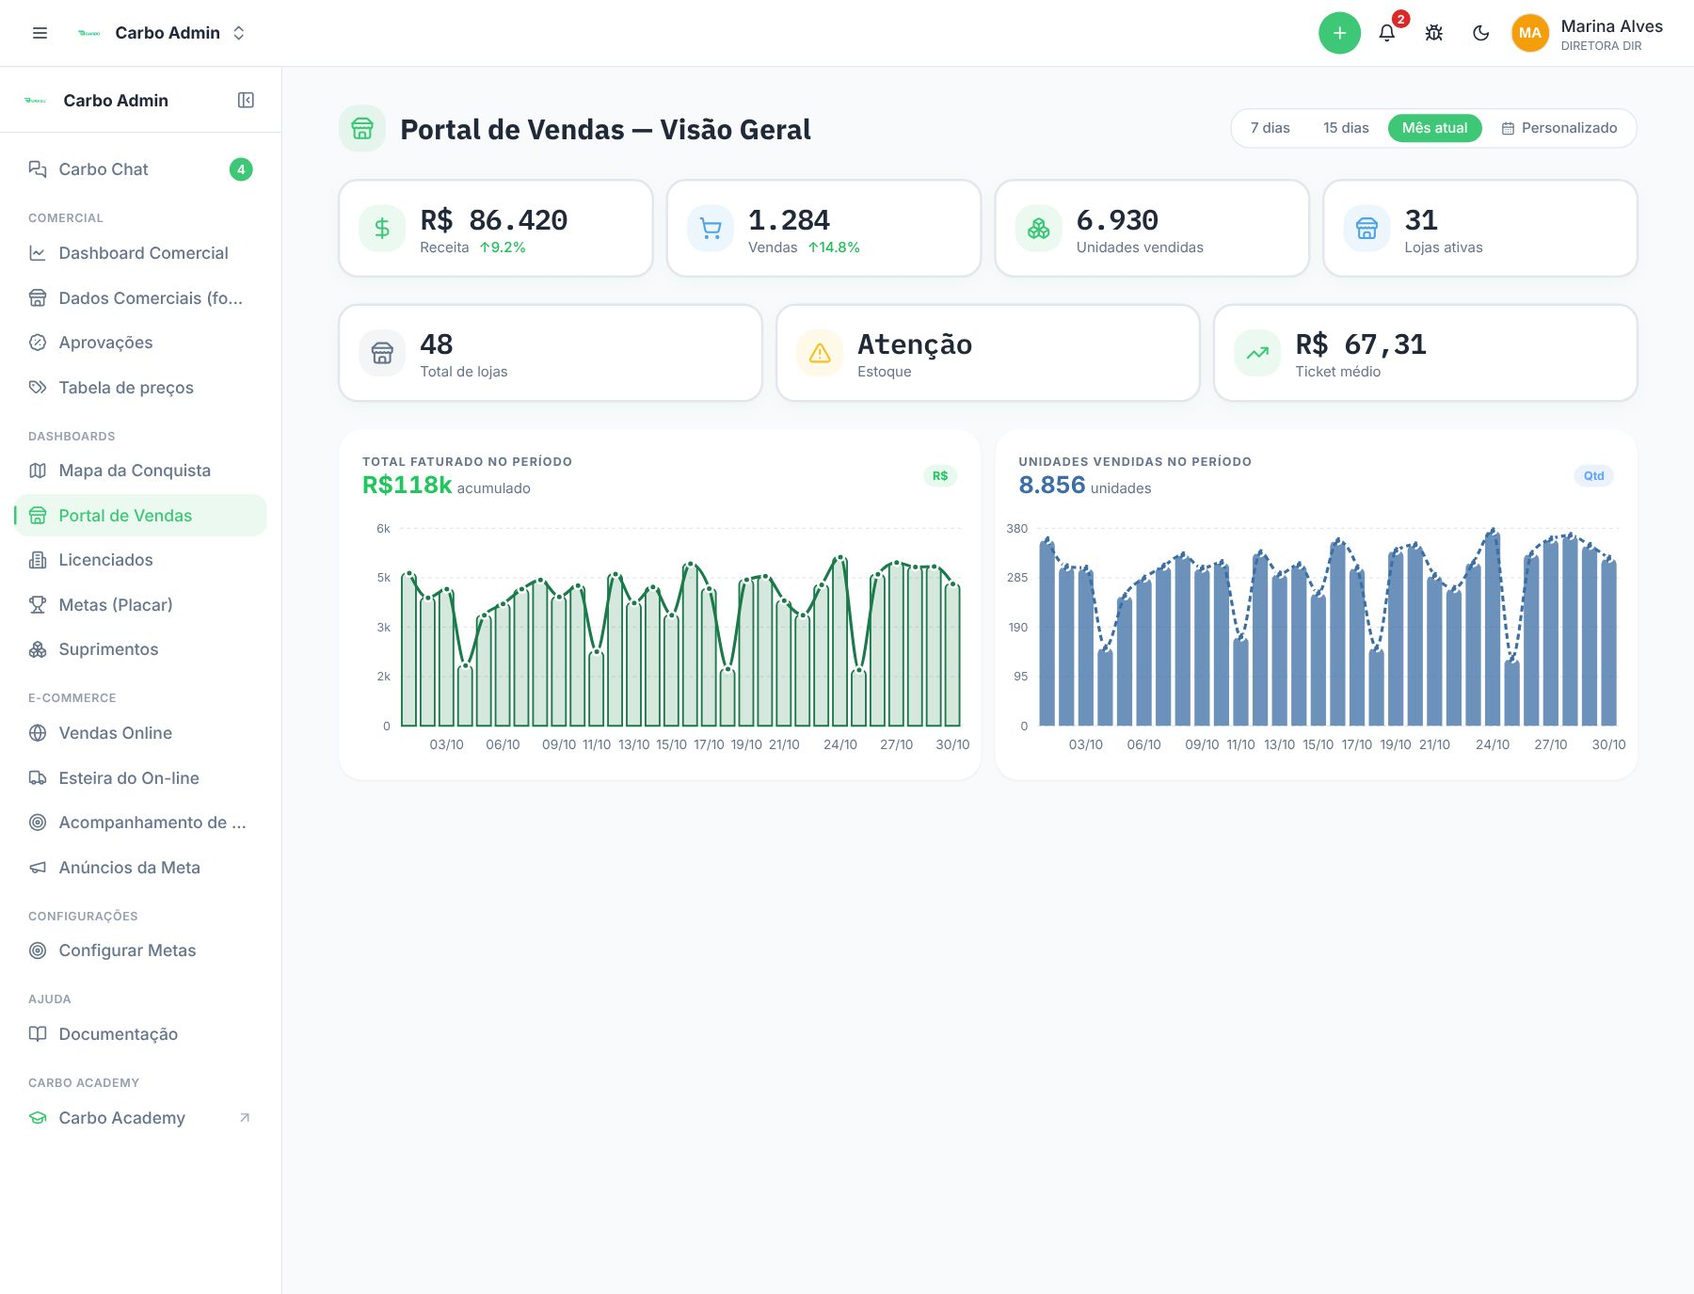
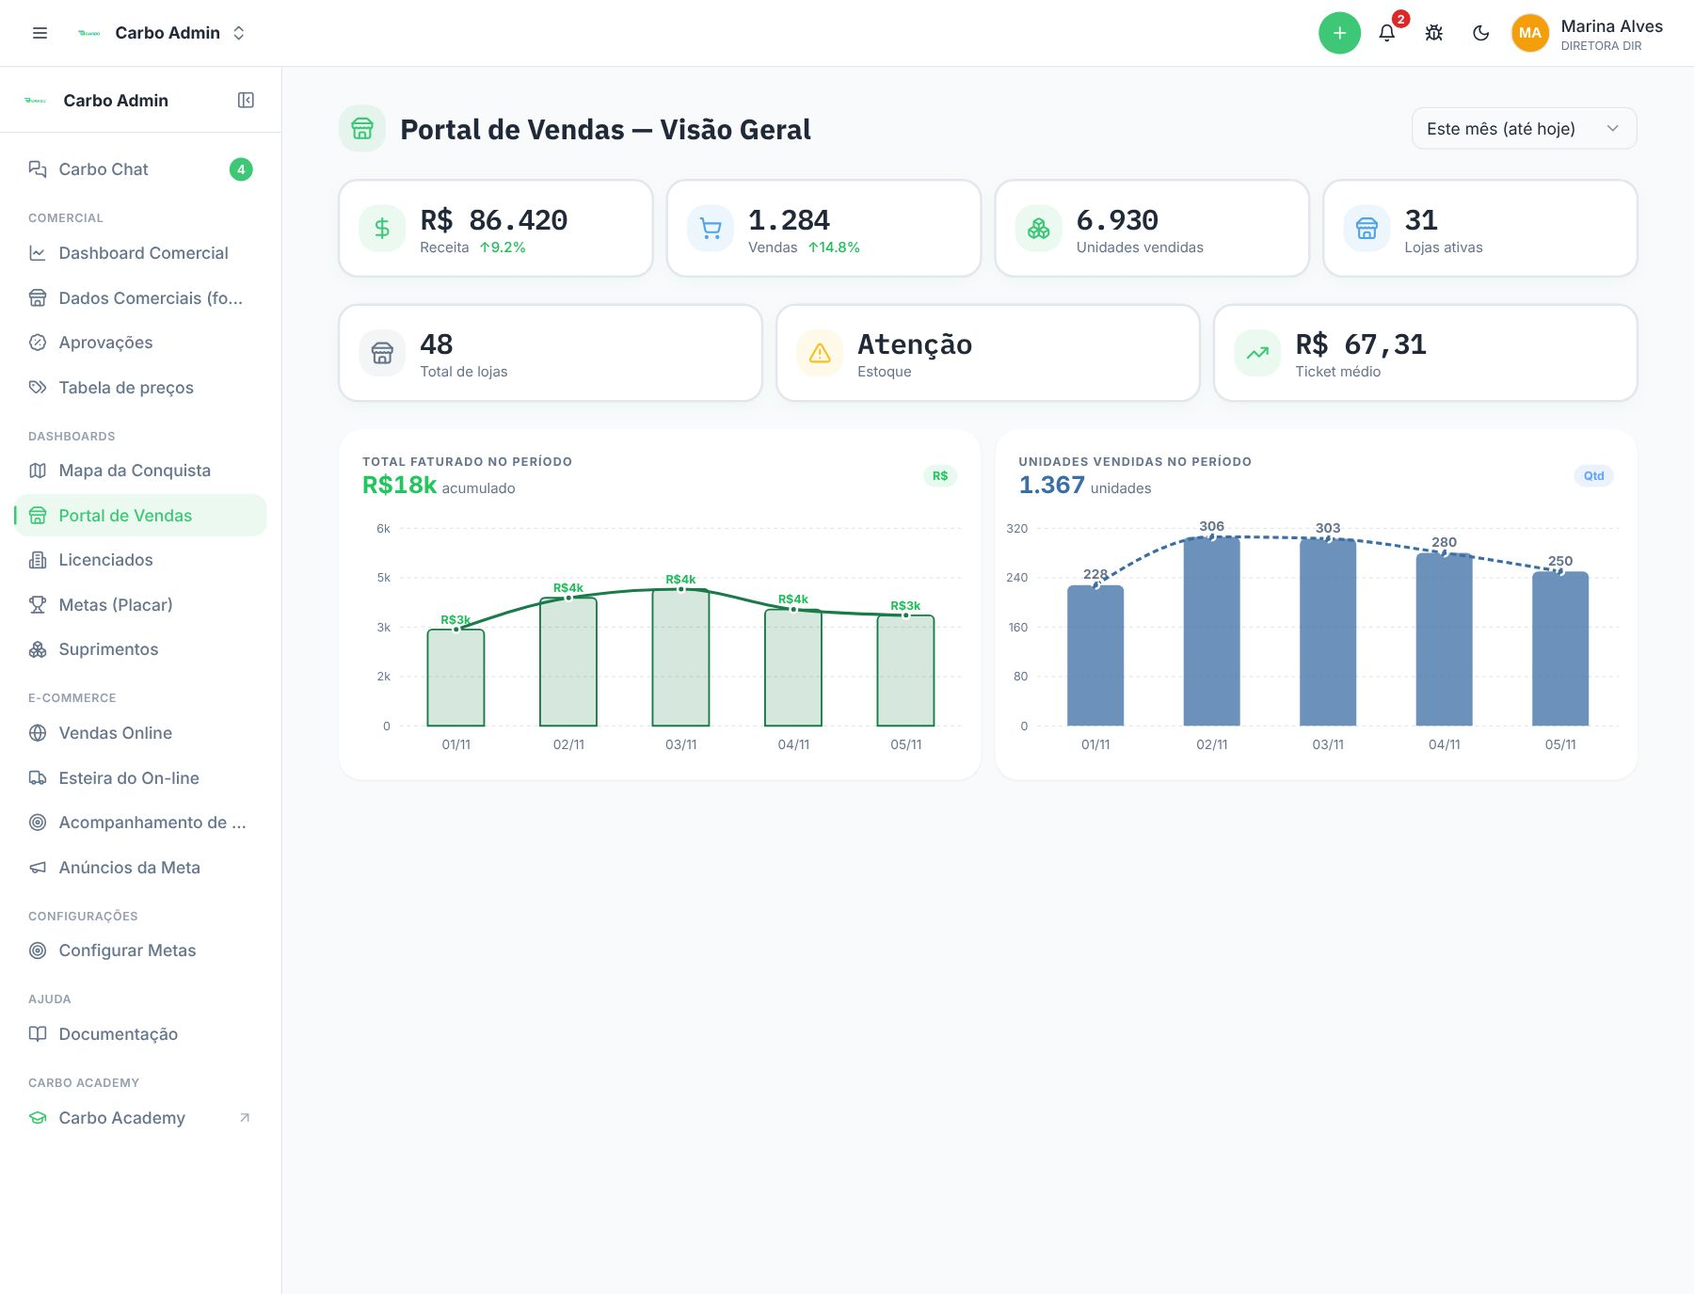
Documentação dos seletores de período (em andamento)
Textos e prints sendo refeitos — fica na branch de desenvolvimento até terminar.

Claude-Session: https://claude.ai/code/session_014dECjKfnWPqtYYc6bX6aZY

Changed region(s): [[0.2178, 0.3665, 0.9644, 0.5804], [0.7778, 0.0611, 0.9333, 0.1222], [0.2489, 0.3665, 0.3111, 0.3971]]

diff --git a/apps/admin/src/docs/secoes/paineis.ts b/apps/admin/src/docs/secoes/paineis.ts
@@ -29,7 +29,7 @@ export const SECOES_PAINEIS: Secao[] = [
     blocos: [
       {
         titulo: "A tela",
-        print: { chave: "mapa-conquista", legenda: "O Brasil por estado, com o período “Este mês”." },
+        print: { chave: "mapa-conquista", legenda: "O Brasil por estado, com o período “Este mês (até hoje)”." },
         itens: [
           { n: 1, titulo: "Cidades", texto: "Quantos municípios já têm presença da Carbo, e quantos municípios o Brasil tem ao todo." },
           { n: 2, titulo: "Estados", texto: "Em quantos dos 27 estados a Carbo já chegou." },
@@ -38,7 +38,7 @@ export const SECOES_PAINEIS: Secao[] = [
           { n: 5, titulo: "Faturamento", texto: "Quanto essas cidades somam em vendas. Com um estado aberto, só aquele estado." },
           { n: 6, titulo: "Que presença mostrar", texto: "“Toda presença” acende qualquer cidade com venda, PDV ou licenciado. Os outros botões mostram só um tipo: só onde houve venda, só onde há ponto de venda ou só onde há licenciado." },
           { n: 7, titulo: "Tela cheia", texto: "Esconde os números e a lista ao lado e deixa só o mapa, maior. Bom para deixar numa TV. Clique de novo para sair." },
-          { n: 8, titulo: "Período", texto: "Este mês, últimos 30 dias, últimos 90 dias ou este ano. Decide o que conta como “conquista nova”: o cartão Novas, a cor âmbar no mapa e a lista Conquistas mudam juntos." },
+          { n: 8, titulo: "Período", texto: "Hoje, Ontem, Últimos 7, 30 ou 90 dias, Últimos 6 ou 12 meses, Este mês (até hoje), Mês fechado… (escolhe o mês ao lado) ou Por período… (abre as duas datas). Abre em Este mês (até hoje). Decide o que conta como “conquista nova”: o cartão Novas, a cor âmbar no mapa e a lista Conquistas mudam juntos." },
           { n: 9, titulo: "Por estado / Por município", texto: "Como o Brasil é desenhado: 27 estados (mais forte = mais cidades conquistadas) ou todos os municípios de uma vez. Dentro de um estado aberto o desenho é sempre por município." },
           { n: 10, titulo: "O mapa", texto: "Passe o mouse num estado para ver quantos municípios dele já acenderam. Clique para abrir o estado: aí aparecem os municípios, e o botão “Ver o Brasil” volta. Dentro do estado, o mouse sobre uma cidade mostra pedidos, PDVs e licenciados dela. A roda do mouse aproxima." },
           { n: 11, titulo: "Legenda", texto: "Verde = conquistado. Âmbar = conquistado dentro do período escolhido (só aparece com os municípios). Escuro = ainda não." },
@@ -80,7 +80,7 @@ export const SECOES_PAINEIS: Secao[] = [
         papel: "gestor",
         print: { chave: "painel-lojas", legenda: "O painel do mês atual.", papel: "gestor" },
         itens: [
-          { n: 1, titulo: "Período", texto: "7 dias, 15 dias, mês atual ou personalizado (duas datas). Vale para a tela inteira. Abre sempre no mês atual." },
+          { n: 1, titulo: "Período", texto: "Hoje, Ontem, Últimos 7 ou 30 dias, Este mês (até hoje), Mês fechado… (escolhe o mês ao lado) ou Por período… (abre as duas datas). Vale para a tela inteira. Abre em Este mês (até hoje)." },
           { n: 2, titulo: "Receita", texto: "Quanto as lojas venderam no período, com a variação contra o período anterior de mesmo tamanho (verde subiu, vermelho caiu)." },
           { n: 3, titulo: "Vendas", texto: "Quantas vendas foram registradas no balcão, com a variação contra o período anterior." },
           { n: 4, titulo: "Unidades vendidas", texto: "Quantos produtos saíram no balcão." },
@@ -124,7 +124,7 @@ export const SECOES_PAINEIS: Secao[] = [
         papel: "gestor",
         print: { chave: "painel-licenciados", legenda: "O painel do mês atual.", papel: "gestor" },
         itens: [
-          { n: 1, titulo: "Período", texto: "7 dias, 15 dias, mês atual ou personalizado. Vale para todos os blocos da tela." },
+          { n: 1, titulo: "Período", texto: "Hoje, Ontem, Últimos 7 ou 30 dias, Este mês (até hoje), Mês fechado… (escolhe o mês ao lado) ou Por período… (abre as duas datas). Vale para todos os blocos da tela. Abre em Este mês (até hoje)." },
           { n: 2, titulo: "Receita no período", texto: "Quanto a rede faturou com serviços, com a variação contra o período anterior. Sem período anterior para comparar, a variação não aparece (em vez de mostrar um 0% que não quer dizer nada)." },
           { n: 3, titulo: "Serviços no período", texto: "Quantas descarbonizações foram registradas, com a variação." },
           { n: 4, titulo: "Ticket médio", texto: "Valor médio de um serviço." },

diff --git a/apps/prevendas/src/docs/conteudo.ts b/apps/prevendas/src/docs/conteudo.ts
@@ -386,15 +386,14 @@ export const SECOES: Secao[] = [
       {
         print: { chave: "vendas", legenda: "Vendas e Orçamentos, visão do colaborador." },
         itens: [
-          { n: 1, titulo: "Mês", texto: "Navega entre os meses. A data que vale é a do faturamento." },
-          { n: 2, titulo: "Período", texto: "Escolha um intervalo livre de datas. “Limpar” volta ao mês." },
-          { n: 3, titulo: "Números do mês", texto: "Total vendido, faturado, aguardando faturamento, vindo de meses anteriores, em orçamento e canceladas. Clique num número para filtrar a tabela por ele; clique de novo para tirar o filtro." },
-          { n: 4, titulo: "Buscar", texto: "Procura pelo nome do cliente, cidade, CNPJ/CPF, IE, telefone, CEP, e-mail ou número do pedido, em todo o histórico (ignora o mês). Número com 3 dígitos ou mais casa em qualquer parte do documento, telefone, CEP ou IE." },
-          { n: 5, titulo: "Status", texto: "Orçamento, Cancelado ou a etapa do pedido (Nova Venda, Em Separação, Em Transporte, Entregue…)." },
-          { n: 6, titulo: "SDR e Closer", texto: "Quem originou o lead e quem fechou a venda." },
-          { n: 7, titulo: "Editar / Converter", texto: "Em orçamentos: editar, converter em venda ou baixar o PDF." },
-          { n: 8, titulo: "Baixar NF", texto: "Abre a nota fiscal (PDF, ou XML se o PDF ainda não chegou). “PDF” baixa a segunda via do pedido." },
-          { n: 9, titulo: "Linha", texto: "Clique para abrir os detalhes da venda." },
+          { n: 1, titulo: "Período", texto: "Hoje, Ontem, Últimos 7 ou 30 dias, Este mês (até hoje), Mês fechado… (escolhe o mês ao lado) ou Por período… (abre as duas datas). Abre no mês corrente inteiro. A data que vale é a do faturamento." },
+          { n: 2, titulo: "Números do período", texto: "Total vendido, faturado, aguardando faturamento, vindo de meses anteriores, em orçamento e canceladas. Clique num número para filtrar a tabela por ele; clique de novo para tirar o filtro." },
+          { n: 3, titulo: "Buscar", texto: "Procura pelo nome do cliente, cidade, CNPJ/CPF, IE, telefone, CEP, e-mail ou número do pedido, em todo o histórico (ignora o período). Número com 3 dígitos ou mais casa em qualquer parte do documento, telefone, CEP ou IE." },
+          { n: 4, titulo: "Status", texto: "Orçamento, Cancelado ou a etapa do pedido (Nova Venda, Em Separação, Em Transporte, Entregue…)." },
+          { n: 5, titulo: "SDR e Closer", texto: "Quem originou o lead e quem fechou a venda." },
+          { n: 6, titulo: "Editar / Converter", texto: "Em orçamentos: editar, converter em venda ou baixar o PDF." },
+          { n: 7, titulo: "Baixar NF", texto: "Abre a nota fiscal (PDF, ou XML se o PDF ainda não chegou). “PDF” baixa a segunda via do pedido." },
+          { n: 8, titulo: "Linha", texto: "Clique para abrir os detalhes da venda." },
         ],
       },
       {
@@ -441,13 +440,13 @@ export const SECOES: Secao[] = [
     },
     blocos: [
       {
-        print: { chave: "resultados", legenda: "Resultados do mês, visão do colaborador." },
+        print: { chave: "resultados", legenda: "Resultados do período, visão do colaborador." },
         itens: [
-          { n: 1, titulo: "Mês", texto: "Navega entre os meses de repasse." },
+          { n: 1, titulo: "Período", texto: "De quando são os repasses: Hoje, Ontem, Últimos 7 ou 30 dias, Este mês (até hoje), Mês fechado… (escolhe o mês ao lado) ou Por período… (abre as duas datas). Abre no mês corrente inteiro." },
           { n: 2, titulo: "Números", texto: "Repassados, fechados, conversão, receita gerada pelos repasses e o tempo médio do repasse até fechar." },
           { n: 3, titulo: "Situação dos repassados", texto: "Quantos fecharam, estão em negociação (e em que etapa), estão na fila sem closer ou foram perdidos." },
           { n: 4, titulo: "Por closer", texto: "Quanto cada closer recebeu, fechou e vendeu." },
-          { n: 5, titulo: "Antes do repasse", texto: "Leads criados no mês, descartados e a taxa de repasse." },
+          { n: 5, titulo: "Antes do repasse", texto: "Leads criados no período, descartados e a taxa de repasse." },
           { n: 6, titulo: "Repasses", texto: "Cada lead repassado, com o closer, a etapa e o valor vendido. Clique no nome para abrir o card. “Na fila” = ainda sem closer." },
         ],
       },

diff --git a/apps/crm/src/docs/secoes/base.ts b/apps/crm/src/docs/secoes/base.ts
@@ -237,15 +237,14 @@ export const SECOES_BASE: Secao[] = [
       {
         print: { chave: "vendas", legenda: "Vendas e Orçamentos, visão do colaborador." },
         itens: [
-          { n: 1, titulo: "Mês", texto: "Navega entre os meses. A data que vale é a do faturamento." },
-          { n: 2, titulo: "Período", texto: "Escolha um intervalo livre de datas. “Limpar” volta ao mês." },
-          { n: 3, titulo: "Números do mês", texto: "Total vendido, faturado, aguardando faturamento, vindo de meses anteriores, em orçamento e canceladas. Clique num número para filtrar a tabela por ele; clique de novo para tirar o filtro." },
-          { n: 4, titulo: "Buscar", texto: "Procura pelo nome do cliente, cidade, CNPJ/CPF, IE, telefone, CEP, e-mail ou número do pedido, em todo o histórico (ignora o mês)." },
-          { n: 5, titulo: "Status", texto: "Orçamento, Cancelado ou a etapa do pedido (Nova Venda, Em Separação, Em Transporte, Entregue…)." },
-          { n: 6, titulo: "Filtros", texto: "“Ocultar pedidos Bling” esconde os pedidos importados do Bling (o número ao lado diz quantos e quanto somam — é o que explica um total diferente de outra tela). Unidade de negócio: revenda, consumo, on-line ou sem classificação. Tipo: produto (CarboZé), serviço (CarboVAPT) ou misto." },
-          { n: 7, titulo: "Editar / Converter", texto: "Em orçamentos: editar, converter em venda ou baixar o PDF." },
-          { n: 8, titulo: "Baixar NF", texto: "Abre a nota fiscal (PDF, ou XML se o PDF ainda não chegou). “PDF” baixa a segunda via do pedido." },
-          { n: 9, titulo: "Linha", texto: "Clique para abrir os detalhes da venda." },
+          { n: 1, titulo: "Período", texto: "Hoje, Ontem, Últimos 7 ou 30 dias, Este mês (até hoje), Mês fechado… (escolhe o mês ao lado) ou Por período… (abre as duas datas). Abre no mês corrente inteiro. A data que vale é a do faturamento." },
+          { n: 2, titulo: "Números do período", texto: "Total vendido, faturado, aguardando faturamento, vindo de meses anteriores, em orçamento e canceladas. Clique num número para filtrar a tabela por ele; clique de novo para tirar o filtro." },
+          { n: 3, titulo: "Buscar", texto: "Procura pelo nome do cliente, cidade, CNPJ/CPF, IE, telefone, CEP, e-mail ou número do pedido, em todo o histórico (ignora o período)." },
+          { n: 4, titulo: "Status", texto: "Orçamento, Cancelado ou a etapa do pedido (Nova Venda, Em Separação, Em Transporte, Entregue…)." },
+          { n: 5, titulo: "Filtros", texto: "“Ocultar pedidos Bling” esconde os pedidos importados do Bling (o número ao lado diz quantos e quanto somam — é o que explica um total diferente de outra tela). Unidade de negócio: revenda, consumo, on-line ou sem classificação. Tipo: produto (CarboZé), serviço (CarboVAPT) ou misto." },
+          { n: 6, titulo: "Editar / Converter", texto: "Em orçamentos: editar, converter em venda ou baixar o PDF." },
+          { n: 7, titulo: "Baixar NF", texto: "Abre a nota fiscal (PDF, ou XML se o PDF ainda não chegou). “PDF” baixa a segunda via do pedido." },
+          { n: 8, titulo: "Linha", texto: "Clique para abrir os detalhes da venda." },
         ],
       },
       {

diff --git a/apps/ops/src/docs/secoes/suprimentos.ts b/apps/ops/src/docs/secoes/suprimentos.ts
@@ -28,7 +28,7 @@ export const SECOES_SUPRIMENTOS: Secao[] = [
         itens: [
           { n: 1, titulo: "Galpões", texto: "Escolhe qual estoque você está olhando. As abas e os números abaixo mudam para o galpão escolhido. O endereço da página guarda o galpão e a aba: dá para mandar o link para um colega." },
           { n: 2, titulo: "Registrar Envio", texto: "Manda mercadoria deste galpão para outro, para a caixa de um vendedor ou para um licenciado. Veja “Mandar mercadoria para outro estoque”, abaixo. Não aparece no CD Bling nem no ML Full." },
-          { n: 3, titulo: "Período", texto: "Últimos 7 dias, 30 dias, este mês, um mês específico ou um período que você escolhe. Vale para os números de entradas e saídas e para a lista de Movimentações." },
+          { n: 3, titulo: "Período", texto: "Hoje, Ontem, Últimos 7 ou 30 dias, Este mês (até hoje), Mês fechado… (escolhe o mês ao lado) ou Por período… (abre as duas datas). Abre em Últimos 7 dias. Vale para os números de entradas e saídas e para a lista de Movimentações." },
           { n: 4, titulo: "Números do galpão", texto: "Total de produtos, quantos estão abaixo do mínimo (Em Baixa) e quantas entradas, saídas e movimentações houve no período." },
           { n: 5, titulo: "Abas", texto: "Estoque, Movimentações, Envios, Recebimento e Política de Estoque existem em todos os galpões. Alguns têm abas próprias: o CD SP LogHouse tem Em Trânsito e Mapeamento SKU; o CD SP Vendas tem Remessas; o Hub Natal tem Notas Fiscais (ainda sem uso)." },
           { n: 6, titulo: "Buscar produto", texto: "Filtra pelo nome ou pelo código." },

diff --git a/apps/ti/src/docs/secoes/demandas.ts b/apps/ti/src/docs/secoes/demandas.ts
@@ -62,7 +62,7 @@ export const SECOES_DEMANDAS: Secao[] = [
           "No fim da Visão geral. Mostra como está o fluxo das demandas — não é nota das pessoas. Não há pódio nem pontuação única: cada coluna é uma informação separada.",
         print: { chave: "ranking-ti", legenda: "O quadro Time de TI, com “Como é calculado” aberto." },
         itens: [
-          { n: 1, titulo: "Período", texto: "Últimos 30 ou 90 dias." },
+          { n: 1, titulo: "Período", texto: "Hoje, Ontem, Últimos 7, 30 ou 90 dias, Últimos 6 ou 12 meses, Este mês (até hoje), Mês fechado… (escolhe o mês ao lado) ou Por período… (abre as duas datas). Abre em Últimos 90 dias." },
           { n: 2, titulo: "Como é calculado", texto: "Abre e fecha a explicação de cada número." },
           { n: 3, titulo: "Números do time", texto: "Quantas foram entregues, o tempo típico do pedido à entrega (e em quanto tempo saem 90% delas), o tempo até triar, a firmeza (quanto do que foi entregue não voltou) e quantas estão na fila há mais de 14 dias." },
           { n: 4, titulo: "As colunas", texto: "Entregas: concluídas no período, com peso pela prioridade (crítica vale mais que baixa); entrega que reabre em até 14 dias vale zero. Velocidade: o tempo que a demanda ficou na mão da pessoa (Em andamento + Em teste) comparado com o típico do time na mesma prioridade — 0,8× é 20% mais rápido que o normal. Firmeza: quanto do que ela entregou não foi reaberto. Assumidas / Em aberto: a carga de cada um." },

diff --git a/apps/admin/src/docs/secoes/ecommerce.ts b/apps/admin/src/docs/secoes/ecommerce.ts
@@ -241,7 +241,7 @@ export const SECOES_ECOMMERCE: Secao[] = [
         print: { chave: "anuncios", legenda: "Anúncios da Meta nos últimos 30 dias, todas as contas." },
         itens: [
           { n: 1, titulo: "Conta", texto: "Todas as contas ou uma só. Só aparece quando há mais de uma conta ligada." },
-          { n: 2, titulo: "Período", texto: "Hoje, Ontem, Últimos 7 dias, Últimos 30 dias ou Mês atual. Abre em 30 dias." },
+          { n: 2, titulo: "Período", texto: "Hoje, Ontem, Últimos 7 ou 30 dias, Este mês (até hoje), Mês fechado… (escolhe o mês ao lado) ou Por período… (abre as duas datas). Abre em Últimos 30 dias." },
           { n: 3, titulo: "Contas", texto: "Mostra as contas de anúncio que o sistema enxerga e quais estão ligadas. Veja “Contas de anúncio”, abaixo." },
           { n: 4, titulo: "Sincronizar agora", texto: "Busca na Meta os últimos 30 dias. Leva alguns segundos; ao terminar, avisa quantas linhas chegaram." },
           { n: 5, titulo: "Os seis números", texto: "Investimento (e impressões), Vendas da Meta (e compras), ROAS, CPA (custo por compra), CPM (custo por mil impressões) e CTR (de cada 100 que viram, quantos clicaram no link)." },

diff --git a/apps/mkt/src/docs/secoes/ecommerce.ts b/apps/mkt/src/docs/secoes/ecommerce.ts
@@ -241,7 +241,7 @@ export const SECOES_ECOMMERCE: Secao[] = [
         print: { chave: "anuncios", legenda: "Anúncios da Meta nos últimos 30 dias, todas as contas." },
         itens: [
           { n: 1, titulo: "Conta", texto: "Todas as contas ou uma só. Só aparece quando há mais de uma conta ligada." },
-          { n: 2, titulo: "Período", texto: "Hoje, Ontem, Últimos 7 dias, Últimos 30 dias ou Mês atual. Abre em 30 dias." },
+          { n: 2, titulo: "Período", texto: "Hoje, Ontem, Últimos 7 ou 30 dias, Este mês (até hoje), Mês fechado… (escolhe o mês ao lado) ou Por período… (abre as duas datas). Abre em Últimos 30 dias." },
           { n: 3, titulo: "Contas", texto: "Mostra as contas de anúncio que o sistema enxerga e quais estão ligadas. Veja “Contas de anúncio”, abaixo." },
           { n: 4, titulo: "Sincronizar agora", texto: "Busca na Meta os últimos 30 dias. Leva alguns segundos; ao terminar, avisa quantas linhas chegaram." },
           { n: 5, titulo: "Os seis números", texto: "Investimento (e impressões), Vendas da Meta (e compras), ROAS, CPA (custo por compra), CPM (custo por mil impressões) e CTR (de cada 100 que viram, quantos clicaram no link)." },

diff --git a/apps/ti/src/docs/secoes/auditoria.ts b/apps/ti/src/docs/secoes/auditoria.ts
@@ -75,7 +75,7 @@ export const SECOES_AUDITORIA: Secao[] = [
       {
         print: { chave: "acompanhamento", legenda: "O topo do Acompanhamento: o dia, o dinheiro e o movimento diário.", papel: "gestor" },
         itens: [
-          { n: 1, titulo: "Período", texto: "Últimos 7, 30 ou 90 dias. Vale para os números “no período”, o gráfico e as perdas." },
+          { n: 1, titulo: "Período", texto: "Hoje, Ontem, Últimos 7, 30 ou 90 dias, Últimos 6 ou 12 meses, Este mês (até hoje), Mês fechado… (escolhe o mês ao lado) ou Por período… (abre as duas datas). Abre em Últimos 30 dias. Vale para os números “no período”, o gráfico e as perdas." },
           { n: 2, titulo: "Vendedor", texto: "Mostra o time todo ou só uma pessoa." },
           { n: 3, titulo: "Prazos", texto: "Abre a lista de quantos dias cada etapa tolera antes de o card contar como parado (veja abaixo)." },
           { n: 4, titulo: "O dia de hoje", texto: "Cards criados, movimentados, ganhos e perdidos hoje." },

diff --git a/apps/prevendas/docs-prints/vite.config.ts b/apps/prevendas/docs-prints/vite.config.ts
@@ -4,7 +4,7 @@ import path from "path";
 const app = path.resolve(__dirname, "..");
 export default defineConfig({
   root: app,
-  server: { port: 8099, strictPort: true },
+  server: { port: Number(process.env.DOCS_PORT ?? 8099), strictPort: true },
   plugins: [react()],
   resolve: {
     alias: [
